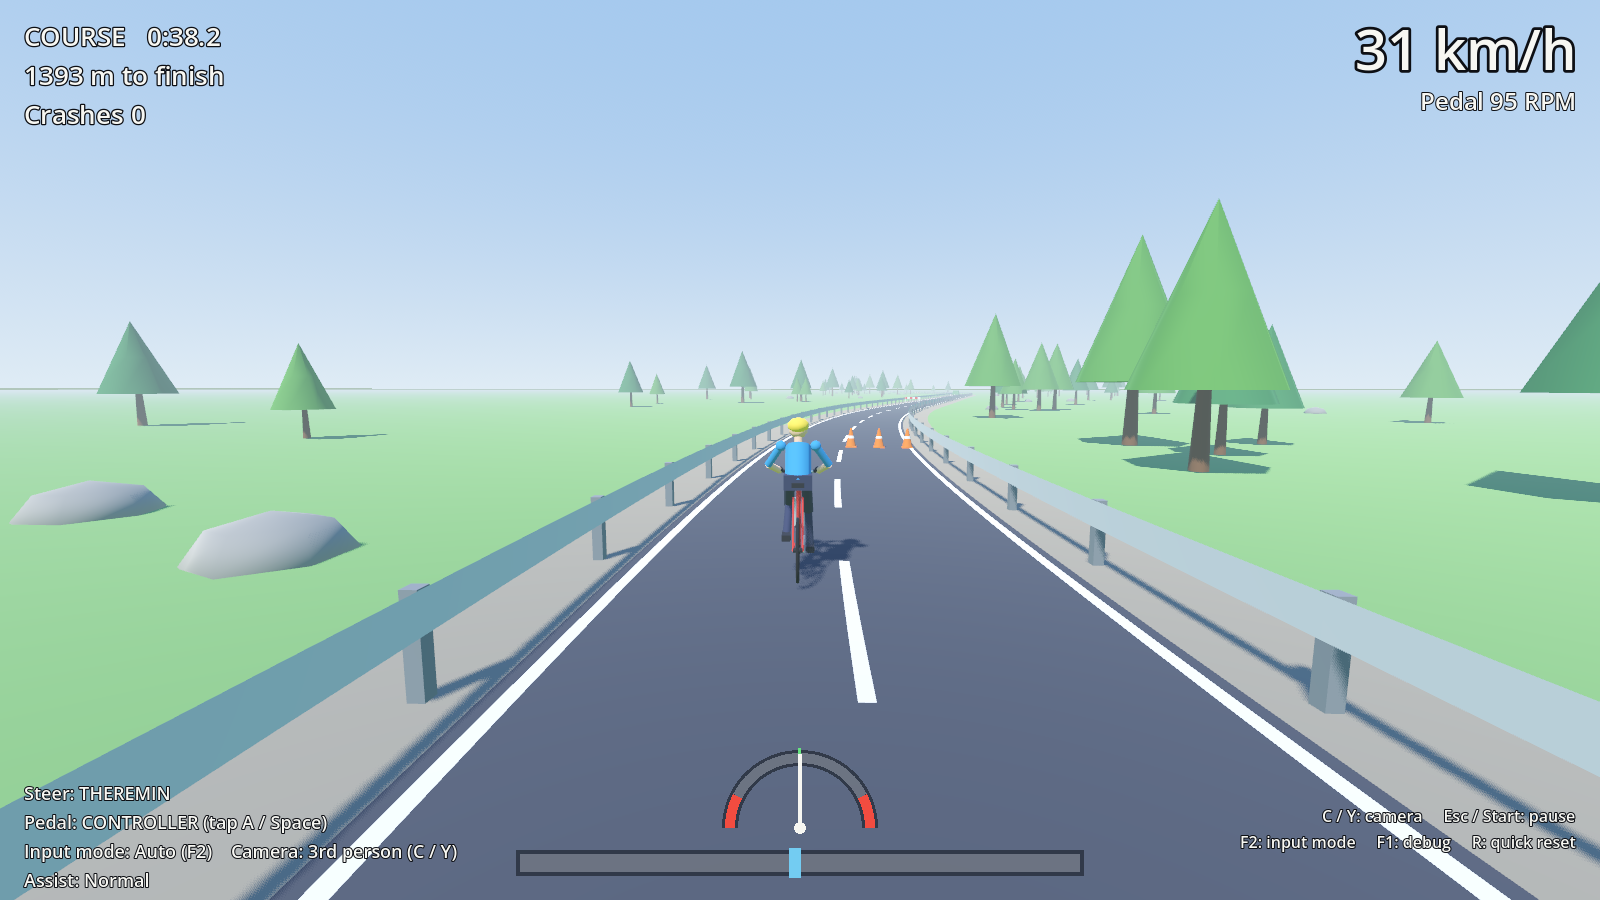
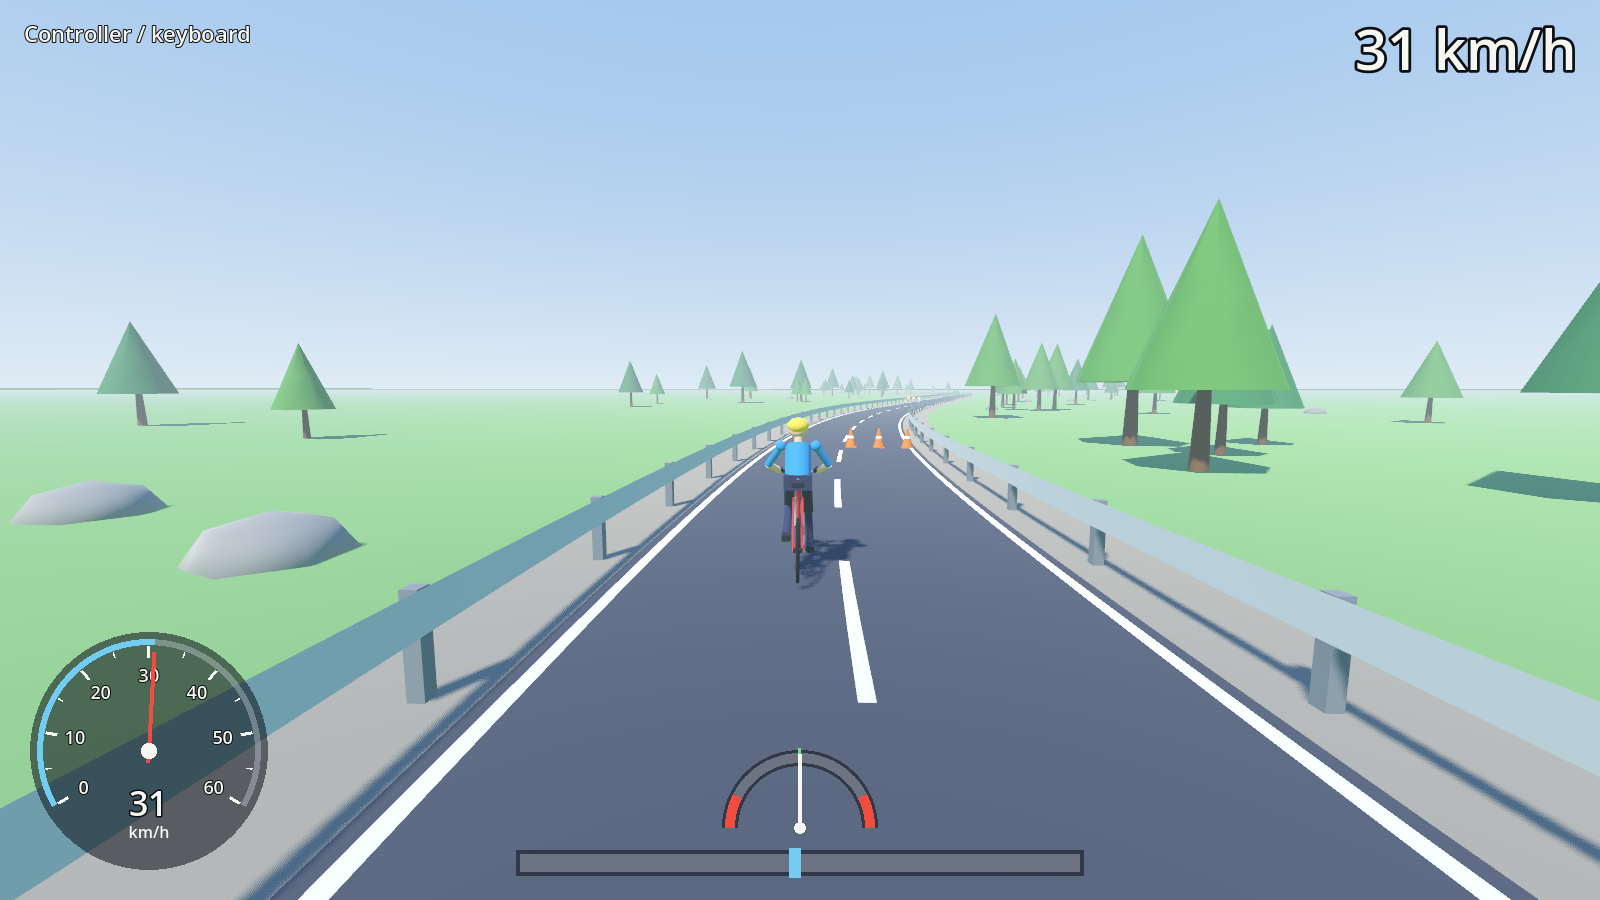
feat: 0.6.0 minimal HUD, speedometer dial, automatic get-up, R/Back restart
HUD shows only the control profile, km/h, steering bar/lean dial and a new
bottom-left speedometer. Crashes get up by themselves after 1.5 s (or at once
by pedalling); R / Back restarts the ride with a 1 s countdown.

diff --git a/docs/CONTROLS.md b/docs/CONTROLS.md
@@ -10,18 +10,24 @@ Pick one on the main menu (**Controls: ...** button) or press **F2** anywhere. T
 | 2 | **Theremin + bike pedals** | Theremin (Max `/bike/steer`) | Stationary bike (Max `/bike/cadence` or `/bike/pedal`) |
 | 3 | **Theremin + controller / keyboard pedal** | Theremin (Max `/bike/steer`) | Tap the pad's A button, or Space / W / ↑ |
 
-A channel set to the theremin or bike never falls back to the controller. If Max isn't sending it, the HUD shows **NO SIGNAL** for that channel (and the bike gets no steering / no pedalling), so you know straight away the profile and the hardware don't match. Camera, pause, reset and F1/F2 keys work in every profile.
+A channel set to the theremin or bike never falls back to the controller. If Max isn't sending it, a yellow warning appears under the profile name in the top-left corner (e.g. *no theremin signal*), and the bike gets no steering / no pedalling, so you know straight away the profile and the hardware don't match. Camera, pause, restart and F1/F2 keys work in every profile.
+
+## What's on screen while riding (0.6.0)
+
+Only: the control profile (top-left, plus a warning line if its device is silent), the speed in km/h (top-right), a speedometer dial (bottom-left), the steering bar with the lean dial above it (bottom centre), and big centre messages (countdown, CRASH!, RAIL!, FINISH!). Distance, crashes, cadence and key hints are no longer shown. F1 still opens the debug readout.
 
 ## The real thing (two players)
 
 | Player | Does | Game effect |
 |---|---|---|
 | Steerer (theremin pitch hand) | Hand toward FULL LEFT / STRAIGHT / FULL RIGHT spots | Steers the front wheel. Steering is also how you **balance**: below about 13 km/h, steer *toward* the side you're falling to catch it. Above that the bike mostly holds itself up, so steer smoothly; holding full lock at speed still tips you over. |
-| Steerer | Pull the hand out of range | Steering eases to straight and the HUD warns you. You can't get up after a crash without the hand present. |
+| Steerer | Pull the hand out of range | Steering eases to straight and the HUD warns you (*theremin hand not detected*). |
 | Pedaller (stationary bike) | Pedal faster or slower | Speed = cadence × 0.105 m/s per RPM (90 RPM ≈ 34 km/h) |
 | Pedaller | Stop pedalling | The bike brakes quickly; below ~9 km/h it wobbles and tips over (about 4 s from cruising speed). |
 
-**Getting back up after a crash** (both players, about 2 s): the pedaller pedals at ≥ 30 RPM **and** the steerer holds steering centred (within ±0.2). The ring fills while both are held and drains if either lets go. You respawn a few metres back, in a lane with no obstacle, with your foot down. Pedal off to start again.
+**Getting back up after a crash** (0.6.0): automatic. Once the bike is lying down you're back up after 1.5 s (the ring fills), or straight away if anyone pedals (≥ 10 RPM, after 0.4 s). Nothing to hold, no steering requirement. You respawn a few metres back, in a lane with no obstacle, with your foot down. Pedal off to start again.
+
+**Restarting the whole ride:** press **R** (keyboard) or **Back / Select** (controller) at any time, including in the pause menu and on the Course results screen. You're on the start line at once with a 1 s countdown (the first ride of a session keeps the 3 s countdown).
 
 ## Controller (playtest)
 
@@ -31,9 +37,9 @@ A channel set to the theremin or bike never falls back to the controller. If Max
 | **A** (tap) | One pedal stroke. Tap faster to pedal faster: 3 taps/s ≈ 90 RPM ≈ 34 km/h. Stop tapping and the bike coasts, then falls. |
 | Y | 1st / 3rd person camera |
 | Start | Pause |
-| Back / Select | Quick reset (debug) |
+| Back / Select | Restart the ride (from the start, 1 s countdown) |
 
-One controller can play both roles, or two people can share it. To get up after a crash: tap A **and** leave the stick centred.
+One controller can play both roles, or two people can share it. After a crash you get up by yourself; tap A to get up sooner.
 
 ## Keyboard
 
@@ -43,12 +49,12 @@ One controller can play both roles, or two people can share it. To get up after 
 | Space, W or ↑ (tap) | Pedal stroke |
 | C | Camera |
 | Esc | Pause |
-| R | Quick reset (debug) |
+| R | Restart the ride (from the start, 1 s countdown) |
 | F1 | Debug overlay (physics values and OSC traffic) |
 | F2 | Next control profile (see the table at the top; saved) |
 
 ## Notes
 
-- These actions are created in code (`RiderInput._ensure_actions`), but only if they don't already exist. To rebind, add an action with the same name in *Project → Project Settings → Input Map*, and it takes priority. Names: `steer_left`, `steer_right`, `pedal`, `toggle_camera`, `pause`, `debug_reset`, `toggle_debug`, `cycle_input_mode` (= next control profile).
+- These actions are created in code (`RiderInput._ensure_actions`), but only if they don't already exist. To rebind, add an action with the same name in *Project → Project Settings → Input Map*, and it takes priority. Names: `steer_left`, `steer_right`, `pedal`, `toggle_camera`, `pause`, `restart_run`, `toggle_debug`, `cycle_input_mode` (= next control profile).
 - Menus use Godot's built-in `ui_*` actions (A = accept). The **Input check** screen deliberately has no focused button, so A stays free for pedal taps; leave it with Esc / Start.
 - After a Course finish, the results buttons wait 2 s before accepting input, so pedal taps don't skip them.

diff --git a/docs/HANDOFF.md b/docs/HANDOFF.md
@@ -1,10 +1,10 @@
 # Handoff: Theremin Rider
 
-**Last updated:** 2026-11-11 · **Version:** 0.5.0 · **Engine:** Godot 4.7.2 (`D:\Godot_v4.7.2-stable_win64.exe`; use `_console.exe` for CLI runs) · **Repo:** `D:\drive\ThereminRider`, GitHub `sahandazimi02-cmyk/ThereminRider` (private)
+**Last updated:** 2026-11-11 · **Version:** 0.6.0 · **Engine:** Godot 4.7.2 (`D:\Godot_v4.7.2-stable_win64.exe`; use `_console.exe` for CLI runs) · **Repo:** `D:\drive\ThereminRider`, GitHub `sahandazimi02-cmyk/ThereminRider` (private)
 
 ## 1. What this is
 
-A co-op bicycle game. Player 1 steers and **balances** with a theremin's pitch. Player 2 pedals a stationary bike, and their cadence is the bike's speed. Both go Max → OSC/UDP → Godot. There's a controller/keyboard version for playtesting. A 2-lane road with rails and obstacles; crash → both players cooperate to get back up. Modes: **Endless** and **Course**. Cameras: 1st and 3rd person.
+A co-op bicycle game. Player 1 steers and **balances** with a theremin's pitch. Player 2 pedals a stationary bike, and their cadence is the bike's speed. Both go Max → OSC/UDP → Godot. There's a controller/keyboard version for playtesting. A 2-lane road with rails and obstacles; crash → back up automatically after 1.5 s (or at once by pedalling); R / Back restarts the ride. Modes: **Endless** and **Course**. Cameras: 1st and 3rd person.
 
 ## 2. State right now
 
@@ -16,6 +16,7 @@ A co-op bicycle game. Player 1 steers and **balances** with a theremin's pitch. 
 | Balance feel | 0.3.0: steadier than 0.1.0 (`lean_assist`, more damping). 0.2.1: back to the 0.1.0 balance (self-balancing at speed, balance by steering when slow) because 0.2.0 was far too hard (KI-19). Stop-pedalling still falls in ~4 s. Next: small tuning steps from here with the user. |
 | First-person view (0.4.0) | True first person: your arms, gloved hands and the handlebar are in view and turn with the steering. Model + camera are edited in `scenes/bike/bike_model.tscn` (TUNING.md). Checked in a screenshot, not played. |
 | Controller / keyboard play | Done. Not yet played by a human. |
+| Minimal HUD + quick restart (0.6.0) | HUD shows only the profile name (+ a warning when its device is silent), km/h top-right, a speedometer dial bottom-left (`hud_speedometer.gd`), steering bar + lean dial bottom centre, and centre messages. Get-up is automatic (`auto_get_up_s` 1.5 s) or instant by pedalling; the old co-op hold (pedal + centred steering for 2 s) is gone. R / Back restarts the ride from the start with a 1 s countdown, also from the pause menu and the results. Checked in screenshots, not played. |
 | Control profiles (0.5.0) | Three saved profiles replace Auto / Controller only / OSC only: **Controller / keyboard**, **Theremin + bike pedals**, **Theremin + controller / keyboard pedal**. Main menu button or F2. `GameSession.input_profile` stores it; `RiderInput` routes by it. Smoke-tested; menu not looked at on screen. |
 | OSC receive in Godot | Done; tested with `tools/osc_test_sender.py` |
 | Max patch (theremin → steer) | **Now the user's own Max-saved patch** (0.4.2). Steering: pitch → `ftom` → `zmap 60. 80. -1. 1.`. Don't run `tools/make_maxpat.py` over it. |
@@ -56,7 +57,7 @@ Autoloads:  GameSession (mode, assist, camera pref, control profile, best scores
 | `scripts/world/` | `road_path.gd` (centre line, `locate()` → s/lateral), `road_world.gd`, `obstacle.gd`, `course_data.gd`, `road_tuning.gd` |
 | `scripts/game/game.gd` | Phases COUNTDOWN → PLAY → FALLEN → (get up) → PLAY / FINISHED. Collisions, scoring, HUD feed, crash effects + slow motion |
 | `scripts/game/crash_fx.gd` | Particle bursts (sparks, dust, debris) and the `Tumbler` that knocks obstacle pieces flying |
-| `scripts/ui/` | HUD, gauges, menus, input check, `ui_kit.gd` |
+| `scripts/ui/` | HUD, gauges (steering bar, lean dial, get-up ring), speedometer, menus, input check, `ui_kit.gd` |
 | `scripts/core/` | `palette.gd` (all colours), `mesh_kit.gd` (primitive builders) |
 | `data/*.tres` | Tuning resources (all gameplay numbers) |
 | `max/` | Max patch |

diff --git a/docs/CHANGELOG.md b/docs/CHANGELOG.md
@@ -2,6 +2,24 @@
 
 Format: newest first. Dates are YYYY-MM-DD.
 
+## 0.6.0: 2026-11-11, minimal HUD, speedometer, quick get-up and restart
+
+### Changed
+- **HUD stripped down.** While riding you only see: the control profile name (top-left; a yellow warning line appears under it only when the profile's device is silent, e.g. *no theremin signal*), km/h (top-right), the steering bar + lean dial (bottom centre, unchanged), and centre messages. Removed: distance / streak / crashes, pedal RPM, the Steer/Pedal/Assist/Camera block and the key-hint text. F1 debug readout still there.
+- **Getting up after a crash is automatic.** Back up 1.5 s after the bike lies down (`road.auto_get_up_s`), or immediately once anyone pedals ≥ 10 RPM after 0.4 s (`reset_min_cadence_rpm`, `min_down_s`). The ring now shows the auto get-up timer. The co-op hold (pedal + centred steering for 2 s) and its tunables `reset_hold_s`, `reset_center_tolerance`, `reset_decay_rate` are removed; the steering hand is no longer needed to get up.
+- **R / Back restarts the ride** (was a debug "reset in place"; action renamed `debug_reset` → `restart_run`). Works while riding, while down, in the pause menu and on the Course results. Restarts use `road.restart_countdown_s` (1 s); the first ride keeps `countdown_s` (3 s). The pause menu's Restart / Ride again use the same path (`Game.restart()`, which saves scores and closes the menu).
+
+### Added
+- **Speedometer dial** bottom-left (`scripts/ui/hud_speedometer.gd`): 240° dial, range = `max_speed_kmh` rounded up to 10, ticks every 5 km/h, numbers every 10, needle, number + km/h.
+- Smoke test: auto get-up with no input; restart returns to the start line with distance/crashes reset; restart countdown is real and shorter than the first one.
+
+### Fixed
+- `tools/screenshots.gd`: the "crash" shots never showed a crash (the forgiving rails just scrape for the whole 10 s window). It now forces the hit if the rail didn't, and turns auto get-up off for the two crash shots.
+
+### Verified
+- Headless import exit 0, no errors. Smoke test: all new checks pass (auto get-up 1.9 s after the crash incl. the fall; restart countdown 1.0 s vs 3.0 s). Exit 1 only for the same two speed checks as before (local `bike_tuning.tres` edits, 60 km/h).
+- Looked at `third_person.png`, `first_person.png`, `crash_impact.png`, `crash_landed.png`: profile text top-left, km/h top-right, speedometer bottom-left, steering bar/lean dial bottom centre, nothing else. Not played by a human; R / Back not pressed on a real keyboard/pad.
+
 ## 0.5.0: 2026-11-11, control profiles
 
 ### Added

diff --git a/docs/KNOWN_ISSUES.md b/docs/KNOWN_ISSUES.md
@@ -40,3 +40,6 @@ Append new entries; mark fixed ones instead of deleting them.
 - **KI-27 (0.4.2): the pedal sensor gives some extra, irregular pulses.** In a 20 s capture, 5 of 14 pulses came 87–178 ms after the previous one (bursts about 126 ms apart), and gaps of ~350 ms read as 155–172 RPM. It may have been uneven test pedalling. `split 250. 5000.` drops the short gaps, but `t b b` still restarts the timer on a dropped pulse, so the next gap is measured from the extra pulse and reads too fast. Fixes, if a steady-pedalling test shows the same: debounce in the Arduino sketch (ignore the sensor for ~150 ms after a trigger), or change the Max logic to ignore pulses under ~300 ms without restarting the timer.
 - *KI-14, 0.5.0: fixed.* Auto mode was replaced by explicit control profiles, so the controller pedal works in *Theremin + controller / keyboard pedal* even while Max sends `/bike/cadence`.
 - **KI-28 (0.5.0): no automatic fallback between devices.** With a theremin profile and Max not running, steering reads NO SIGNAL and the bike can't be steered. Intentional (the profile is explicit), but if it trips people up, add an opt-in fallback rather than bringing back Auto.
+- **KI-29 (0.6.0): there is no in-game score while riding.** Distance, streak and crash count were removed from the HUD on request. Endless best streak and Course time are still recorded and shown on the main menu, and the Course finish message shows time and crashes. Endless shows no total on exit.
+- **KI-30 (0.6.0): auto get-up doesn't wait for the players.** You're back up 1.5 s after the bike lies down, even if the steerer's hand is off the theremin. The bike waits with a foot down until someone pedals, so it's safe, but if the steerer needs time, raise `auto_get_up_s` or set it to 0 (pedal-only).
+- **KI-31 (0.6.0):** the speedometer's 0 label sits under the needle when stopped (cosmetic).

diff --git a/docs/OSC_PROTOCOL.md b/docs/OSC_PROTOCOL.md
@@ -19,7 +19,7 @@ You can rename all four addresses in `data/input_tuning.tres`.
   - *Theremin + bike pedals*: steering from `/bike/steer`, pedalling from `/bike/cadence` (or `/bike/pedal` if no cadence is live).
   - *Theremin + controller / keyboard pedal*: steering from `/bike/steer`; Max's pedal data is ignored, so SEND PEDAL DATA can stay on.
   - There is no automatic fallback (the old *Auto* mode is gone, 0.5.0). A channel the profile takes from OSC reads NONE while it isn't live.
-- **Hand absent** (`/bike/steer/present 0`): steering eases back to straight (`steer_absent_return_s`), and the HUD shows *THEREMIN - hand not detected!* The co-op get-up also needs the hand present.
+- **Hand absent** (`/bike/steer/present 0`): steering eases back to straight (`steer_absent_return_s`), and the HUD shows *theremin hand not detected* under the profile name. (Since 0.6.0 getting up after a crash no longer needs the hand.)
 - **Steering processing in Godot**, in `input_tuning.tres`: `osc_steer_invert`, `osc_steer_gain`, `osc_steer_deadzone` (re-scaled so it stays continuous), and `osc_steer_smoothing_s`.
 - **Pedal strokes:** 2 strokes = 1 crank revolution (`strokes_per_rev`). The last 4 intervals are averaged, and cadence drops to 0 after `stroke_timeout_s` (1.2 s) without a stroke.
 

diff --git a/docs/TUNING.md b/docs/TUNING.md
@@ -68,7 +68,8 @@ The bike is simulated directly rather than with Godot's physics engine; that's s
 | Too fast / slow overall | `bike.speed_per_rpm`, `bike.max_speed_kmh` (top speed), `road.speed_fov_boost_deg` (sense of speed) |
 | Crashes too much / not enough drama | "Crash effects" group (`bike_tuning`), "Crash camera" group (`road_tuning`); `slowmo_s` 0 turns slow motion off |
 | Pedaller has to tap/pedal too fast | `bike.speed_per_rpm` ↑ |
-| Get-up too fiddly | `road.reset_center_tolerance` ↑, `road.reset_min_cadence_rpm` ↓, `road.reset_hold_s` ↓ |
+| Get-up too slow / too quick | `road.auto_get_up_s` (1.5 s; 0 = only pedalling gets you up), `road.min_down_s` (0.4 s before pedalling counts), `road.reset_min_cadence_rpm` (10) |
+| Restart countdown | `road.restart_countdown_s` (1 s after R / Back / Restart), `road.countdown_s` (3 s, first ride only) |
 | Road too narrow / rails too close | `road.lane_width_m`, `road.rail_gap_m` |
 | Endless too hard too soon | `road.endless_intro_m` ↑ (straight warm-up), `road.difficulty_ramp_m` ↑, `road.difficulty_curve` ↑, `road.obstacle_gap_hard_m` ↑ |
 | Course start too hard | `CourseData.SEGMENTS` / `OBSTACLES` in `course_data.gd` (plain data) |
